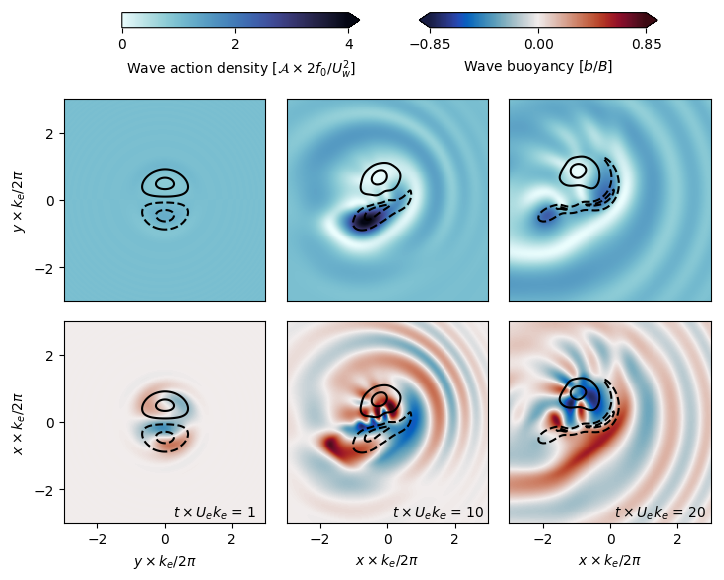
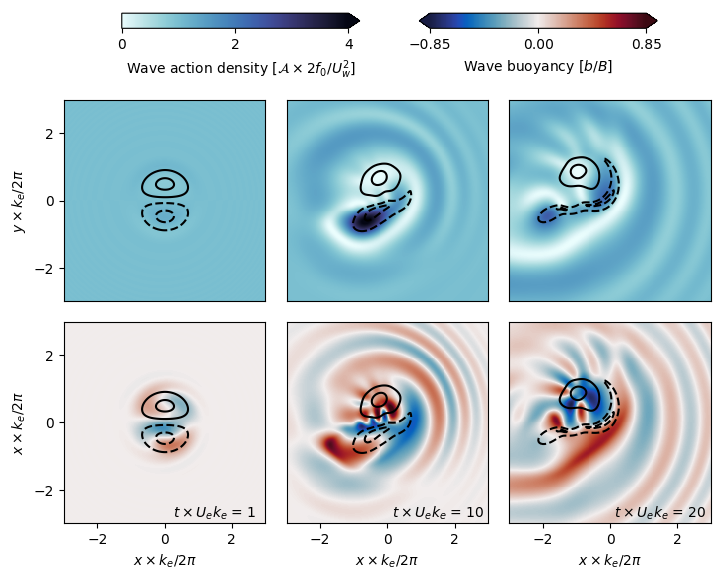
Adds new fig

diff --git a/code/Figure1b.py b/code/Figure1b.py
@@ -1,0 +1,112 @@
+"""
+    Plots figure 1: snapshots of the Lamb-Chapygin dipole solution.
+"""
+
+import h5py
+import numpy as np
+import matplotlib.pyplot as plt
+import cmocean
+
+from Utils import *
+
+plt.close('all')
+
+pathi = "outputs/lambdipole/"
+patho = "../writeup/figs/"
+
+## get params
+params = h5py.File(pathi+"parameters.h5","r")
+Ue, ke = params['dimensional/Ue'][()], params['dimensional/ke'][()]
+Te = params['dimensional/Te'][()]
+Uw = params['dimensional/Uw'][()]
+f0 = params['dimensional/f0'][()]
+m = params['dimensional/m'][()]
+N0 = params['dimensional/N'][()]
+nu4w = params['dimensional/nu4'][()]
+lam2  = (N0/f0/m)**2
+lam  = np.sqrt(lam2)
+
+## get grid
+setup = h5py.File(pathi+"setup.h5","r")
+x, y = setup['grid/x'][:]*ke/(2*np.pi), setup['grid/y'][:]*ke/(2*np.pi)
+x -= x.mean()
+y -= y.mean()
+
+k, l = setup['grid/k'][:], setup['grid/l'][:]
+k, l = np.meshgrid(k,l)
+wv2 = k**2 + l**2
+#files = ['000000000016667.h5', '000000000900000.h5',
+#            '000000002666667.h5', '000000008000000.h5']
+
+#files = ['000000000016667.h5','000000002666667.h5', '000000008000000.h5']
+files = ['000000000300000.h5','000000002666667.h5', '000000005200000.h5']
+
+snap = h5py.File(pathi+"snapshots/"+files[-1])
+
+t = snap['t'][()]/Te
+q = snap['q'][:]/(Ue*ke)
+phi2 = np.abs(snap['phi'])**2/Uw**2
+uw, vw, ww, pw, bw = wave_fields(snap['phi'][:],f0,lam2,snap['t'][()],k,l,m)
+
+phih = np.fft.fft2(snap['phi'][:])
+phi2h = np.fft.fft2(snap['phi'][:]**2)
+phix, phiy = np.fft.ifft2(1j*k*phih), np.fft.ifft2(1j*l*phih)
+J_phic_phi = np.conj(phix)*phiy - np.conj(phiy)*phix
+
+qw1 = np.fft.ifft2(-wv2*phi2h).real/(4*f0)
+qw2 = (1j*J_phic_phi).real/(2*f0)
+qw = qw1+qw2
+qpsi = snap['q'][:]-qw
+qpsi = qpsi/(Ue*ke)
+
+cphi = np.arange(0.,4.1,0.1)
+cb = np.arange(-.85,.95,0.1)
+cq   = np.array([-1.5,-0.5,0.5,1.5])
+xlim = [-2,1]
+ylim = [-1,2]
+
+fig = plt.figure(figsize=(8.5,5.5))
+ax = fig.add_subplot(1,2,1,aspect=1)
+fig.subplots_adjust(wspace=.075)
+fig.subplots_adjust(hspace=.1)
+pc1 = ax.pcolormesh(x,y, phi2,vmin=cphi.min(),vmax=cphi.max(),
+                 cmap = cmocean.cm.ice_r, shading='flat')
+ax.contour(x,y, qpsi, cq,colors='k')
+ax.set_xlim(xlim[0],xlim[1])
+ax.set_ylim(ylim[0],ylim[1])
+
+ax2 = fig.add_subplot(1,2,2,aspect=1)
+pc2 = ax2.pcolormesh(x,y, bw/Uw/m/(f0*lam2)/ke,vmin=cb.min(),vmax=cb.max(),
+                 cmap = cmocean.cm.balance, shading='flat')
+ax2.contour(x,y, qpsi, cq,colors='k')
+ax2.set_xlim(xlim[0],xlim[1])
+ax2.set_ylim(ylim[0],ylim[1])
+
+#ax.set_xticks([])
+ax.set_yticks([0,1,2])
+ax.set_xticks([-2,-1,0,1])
+ax.set_ylabel(r"$y\times k_e/2\pi$")
+ax.set_xlabel(r"$x\times k_e/2\pi$")
+ax2.set_yticks([])
+ax2.set_xticks([-2,-1,0,1])
+ax2.set_xlabel(r"$x\times k_e/2\pi$")
+
+
+#plot_fig_label(ax2, xc =0.75, yc=.05, label= r"$t \times U_e k_e$ = "+
+#                str(int(round(t))), facecolor="1.0",boxstyle=None,alpha=0.)
+
+
+# colorbar
+#fig.subplots_adjust(right=0.8)
+cbar_ax = fig.add_axes([0.2, 1.01, 0.28, 0.0275])
+fig.colorbar(pc1, cax=cbar_ax,label=r"Wave action density $[\mathcal{A} \times 2 f_0 /U_w^2]$",
+                    orientation='horizontal', ticks=[0.,2.,4.],extend='max')
+cbar_ax = fig.add_axes([0.55, 1.01, 0.28, 0.0275])
+fig.colorbar(pc2, cax=cbar_ax,label=r"Wave buoyancy $[b/B]$",
+                    orientation='horizontal',ticks=[-.85,0.,.85],
+                    extend='both')
+
+
+plt.savefig(patho+"fig1b.png", pad_inces=0, bbox_inches='tight')
+#plt.savefig(patho+"fig1.eps",dpi=200, pad_inces=0, bbox_inches='tight')
+#plt.savefig(patho+"fig1.pdf",dpi=100, pad_inces=0, bbox_inches='tight')

diff --git a/code/Figure1.py b/code/Figure1.py
@@ -34,7 +34,7 @@ y -= y.mean()
 
 k, l = setup['grid/k'][:], setup['grid/l'][:]
 k, l = np.meshgrid(k,l)
-
+wv2 = k**2 + l**2
 #files = ['000000000016667.h5', '000000000900000.h5',
 #            '000000002666667.h5', '000000008000000.h5']
 
@@ -49,6 +49,17 @@ def plot_snapshot(fig, snap, panel = 1):
     q = snap['q'][:]/(Ue*ke)
     phi2 = np.abs(snap['phi'])**2/Uw**2
     uw, vw, ww, pw, bw = wave_fields(snap['phi'][:],f0,lam2,snap['t'][()],k,l,m)
+
+    phih = np.fft.fft2(snap['phi'][:])
+    phi2h = np.fft.fft2(snap['phi'][:]**2)
+    phix, phiy = np.fft.ifft2(1j*k*phih), np.fft.ifft2(1j*l*phih)
+    J_phic_phi = np.conj(phix)*phiy - np.conj(phiy)*phix
+
+    qw1 = np.fft.ifft2(-wv2*phi2h).real/(4*f0)
+    qw2 = (1j*J_phic_phi).real/(2*f0)
+    qw = qw1+qw2
+    qpsi = snap['q'][:]-qw
+    qpsi = qpsi/(Ue*ke)
 
     ax = fig.add_subplot(2,3,panel,aspect=1)
     fig.subplots_adjust(wspace=.045)
@@ -72,7 +83,7 @@ def plot_snapshot(fig, snap, panel = 1):
         ax.set_ylabel(r"$y\times k_e/2\pi$")
         ax2.set_yticks([-2,0,2])
         ax2.set_ylabel(r"$x\times k_e/2\pi$")
-        ax2.set_xlabel(r"$y\times k_e/2\pi$")
+        ax2.set_xlabel(r"$x\times k_e/2\pi$")
     elif panel == 2 or panel == 3:
         ax.set_xticks([])
         ax.set_yticks([])
